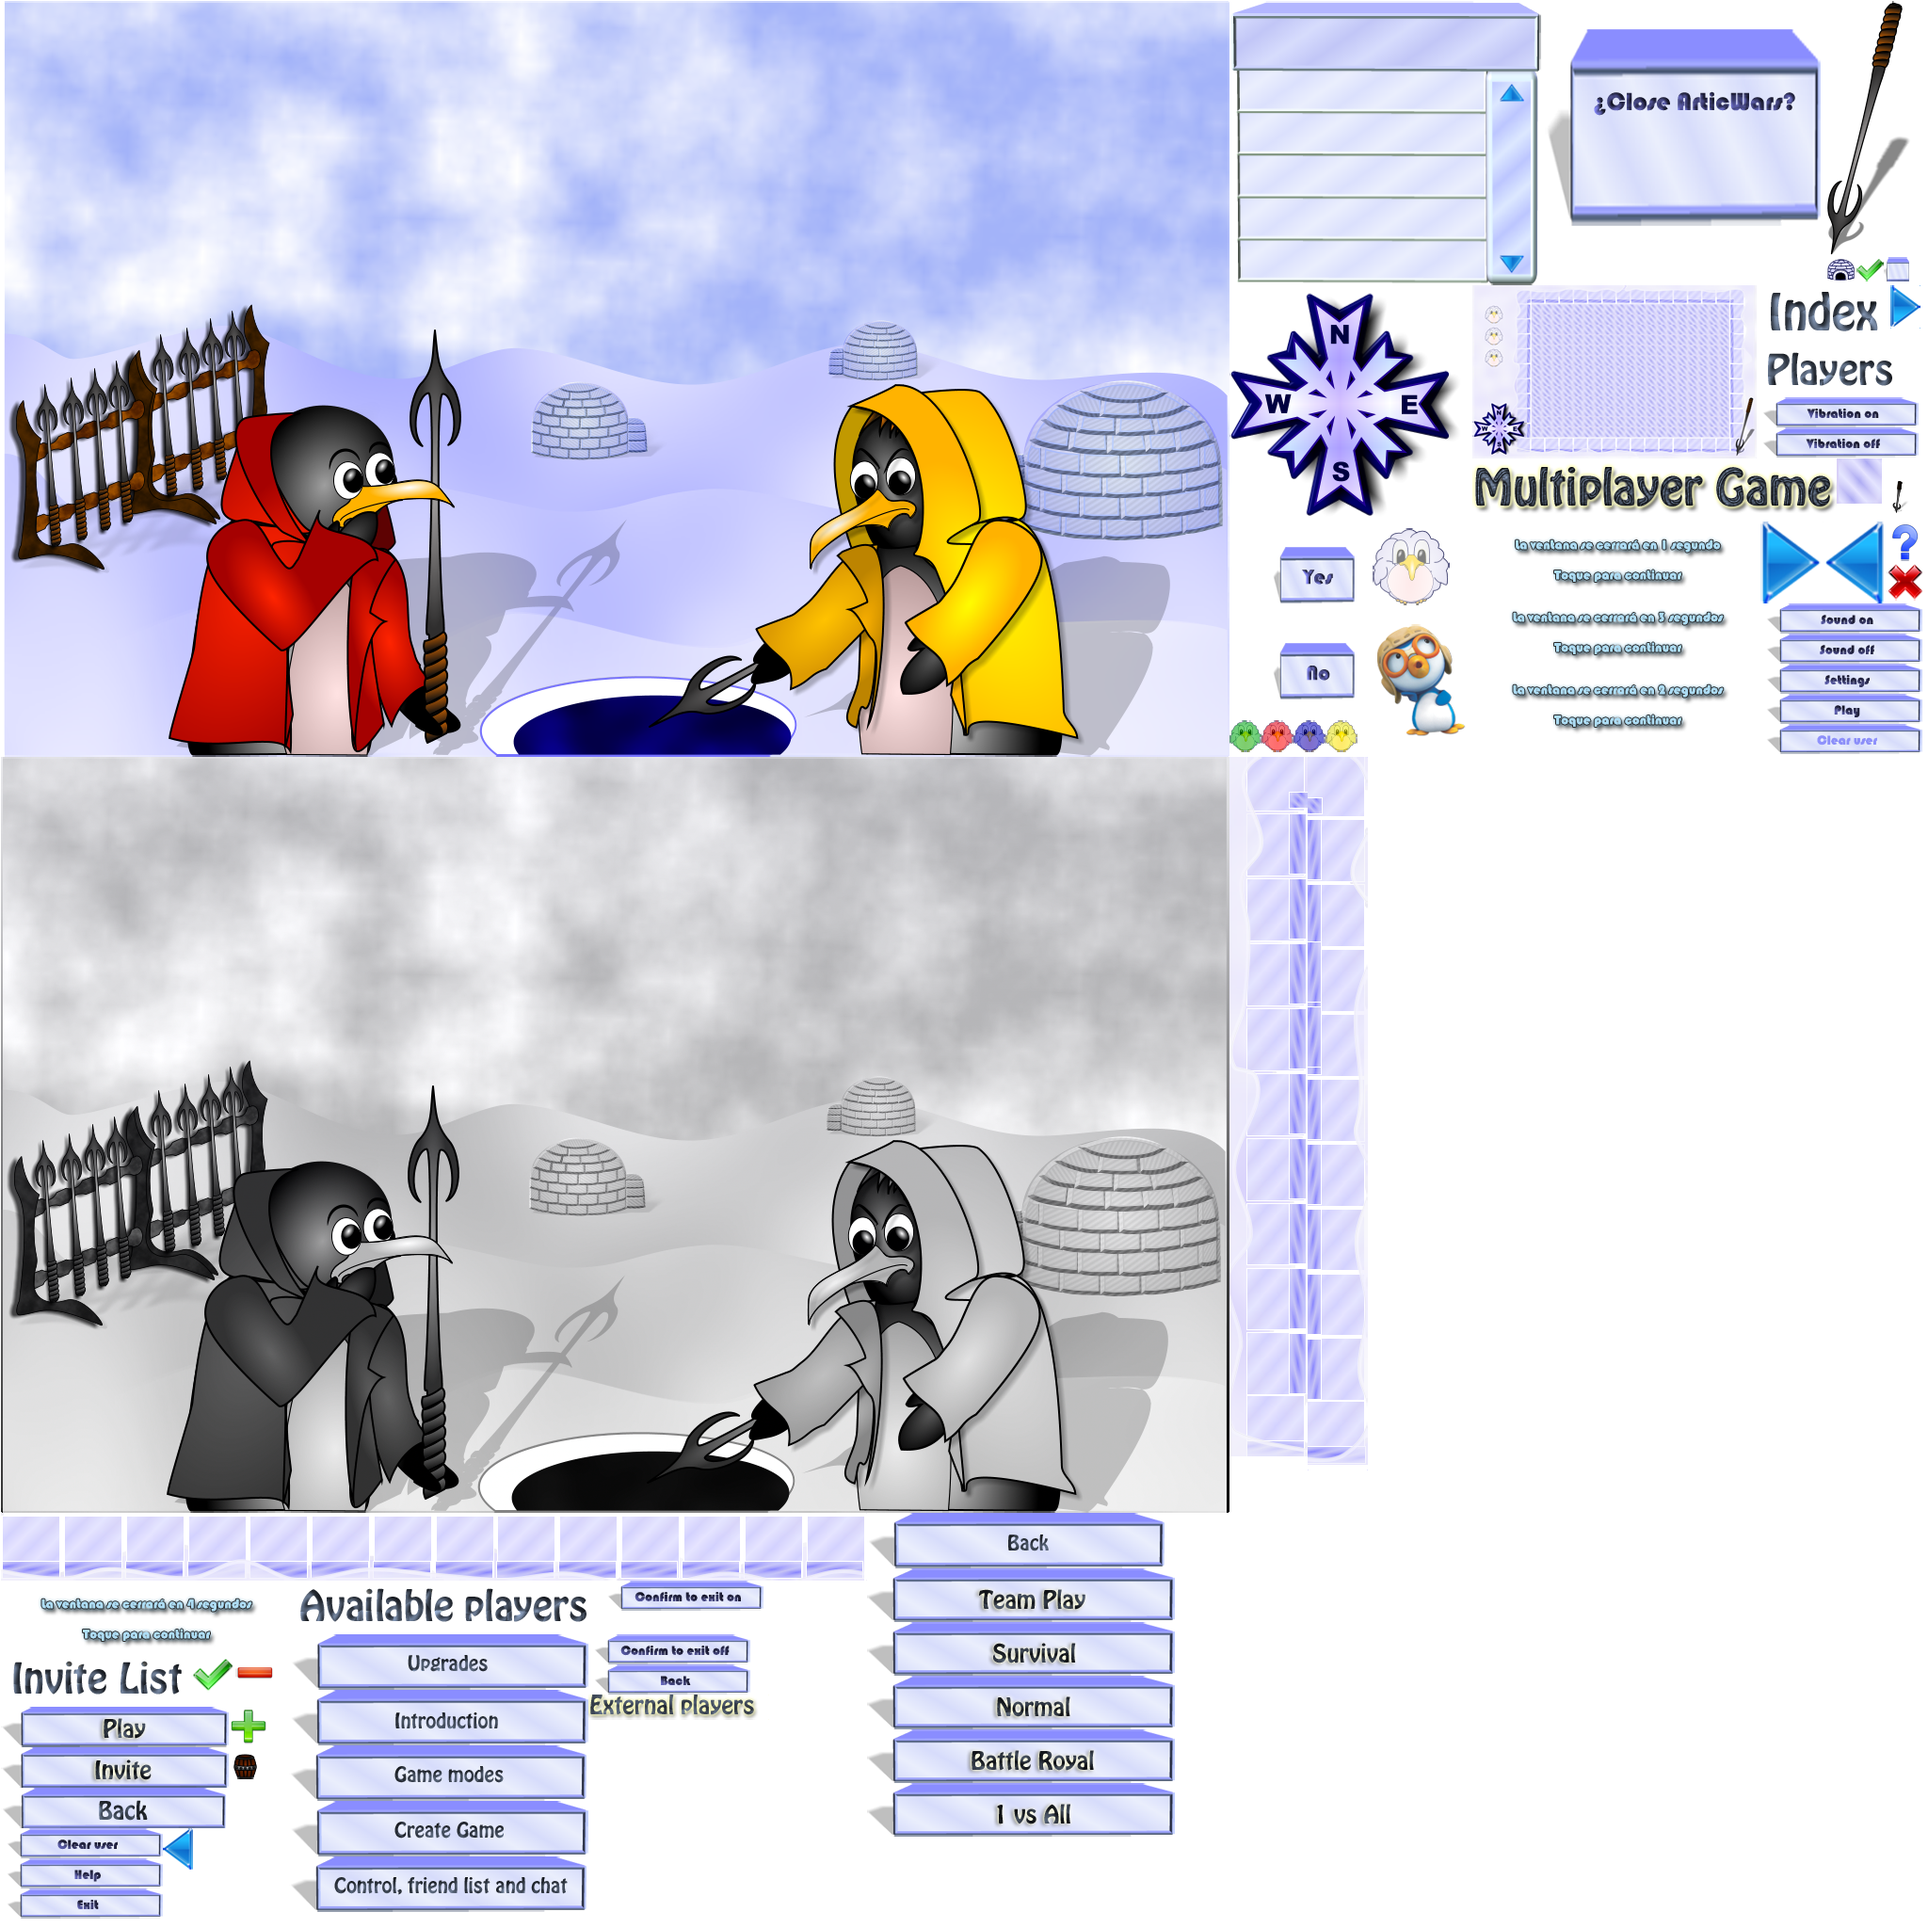
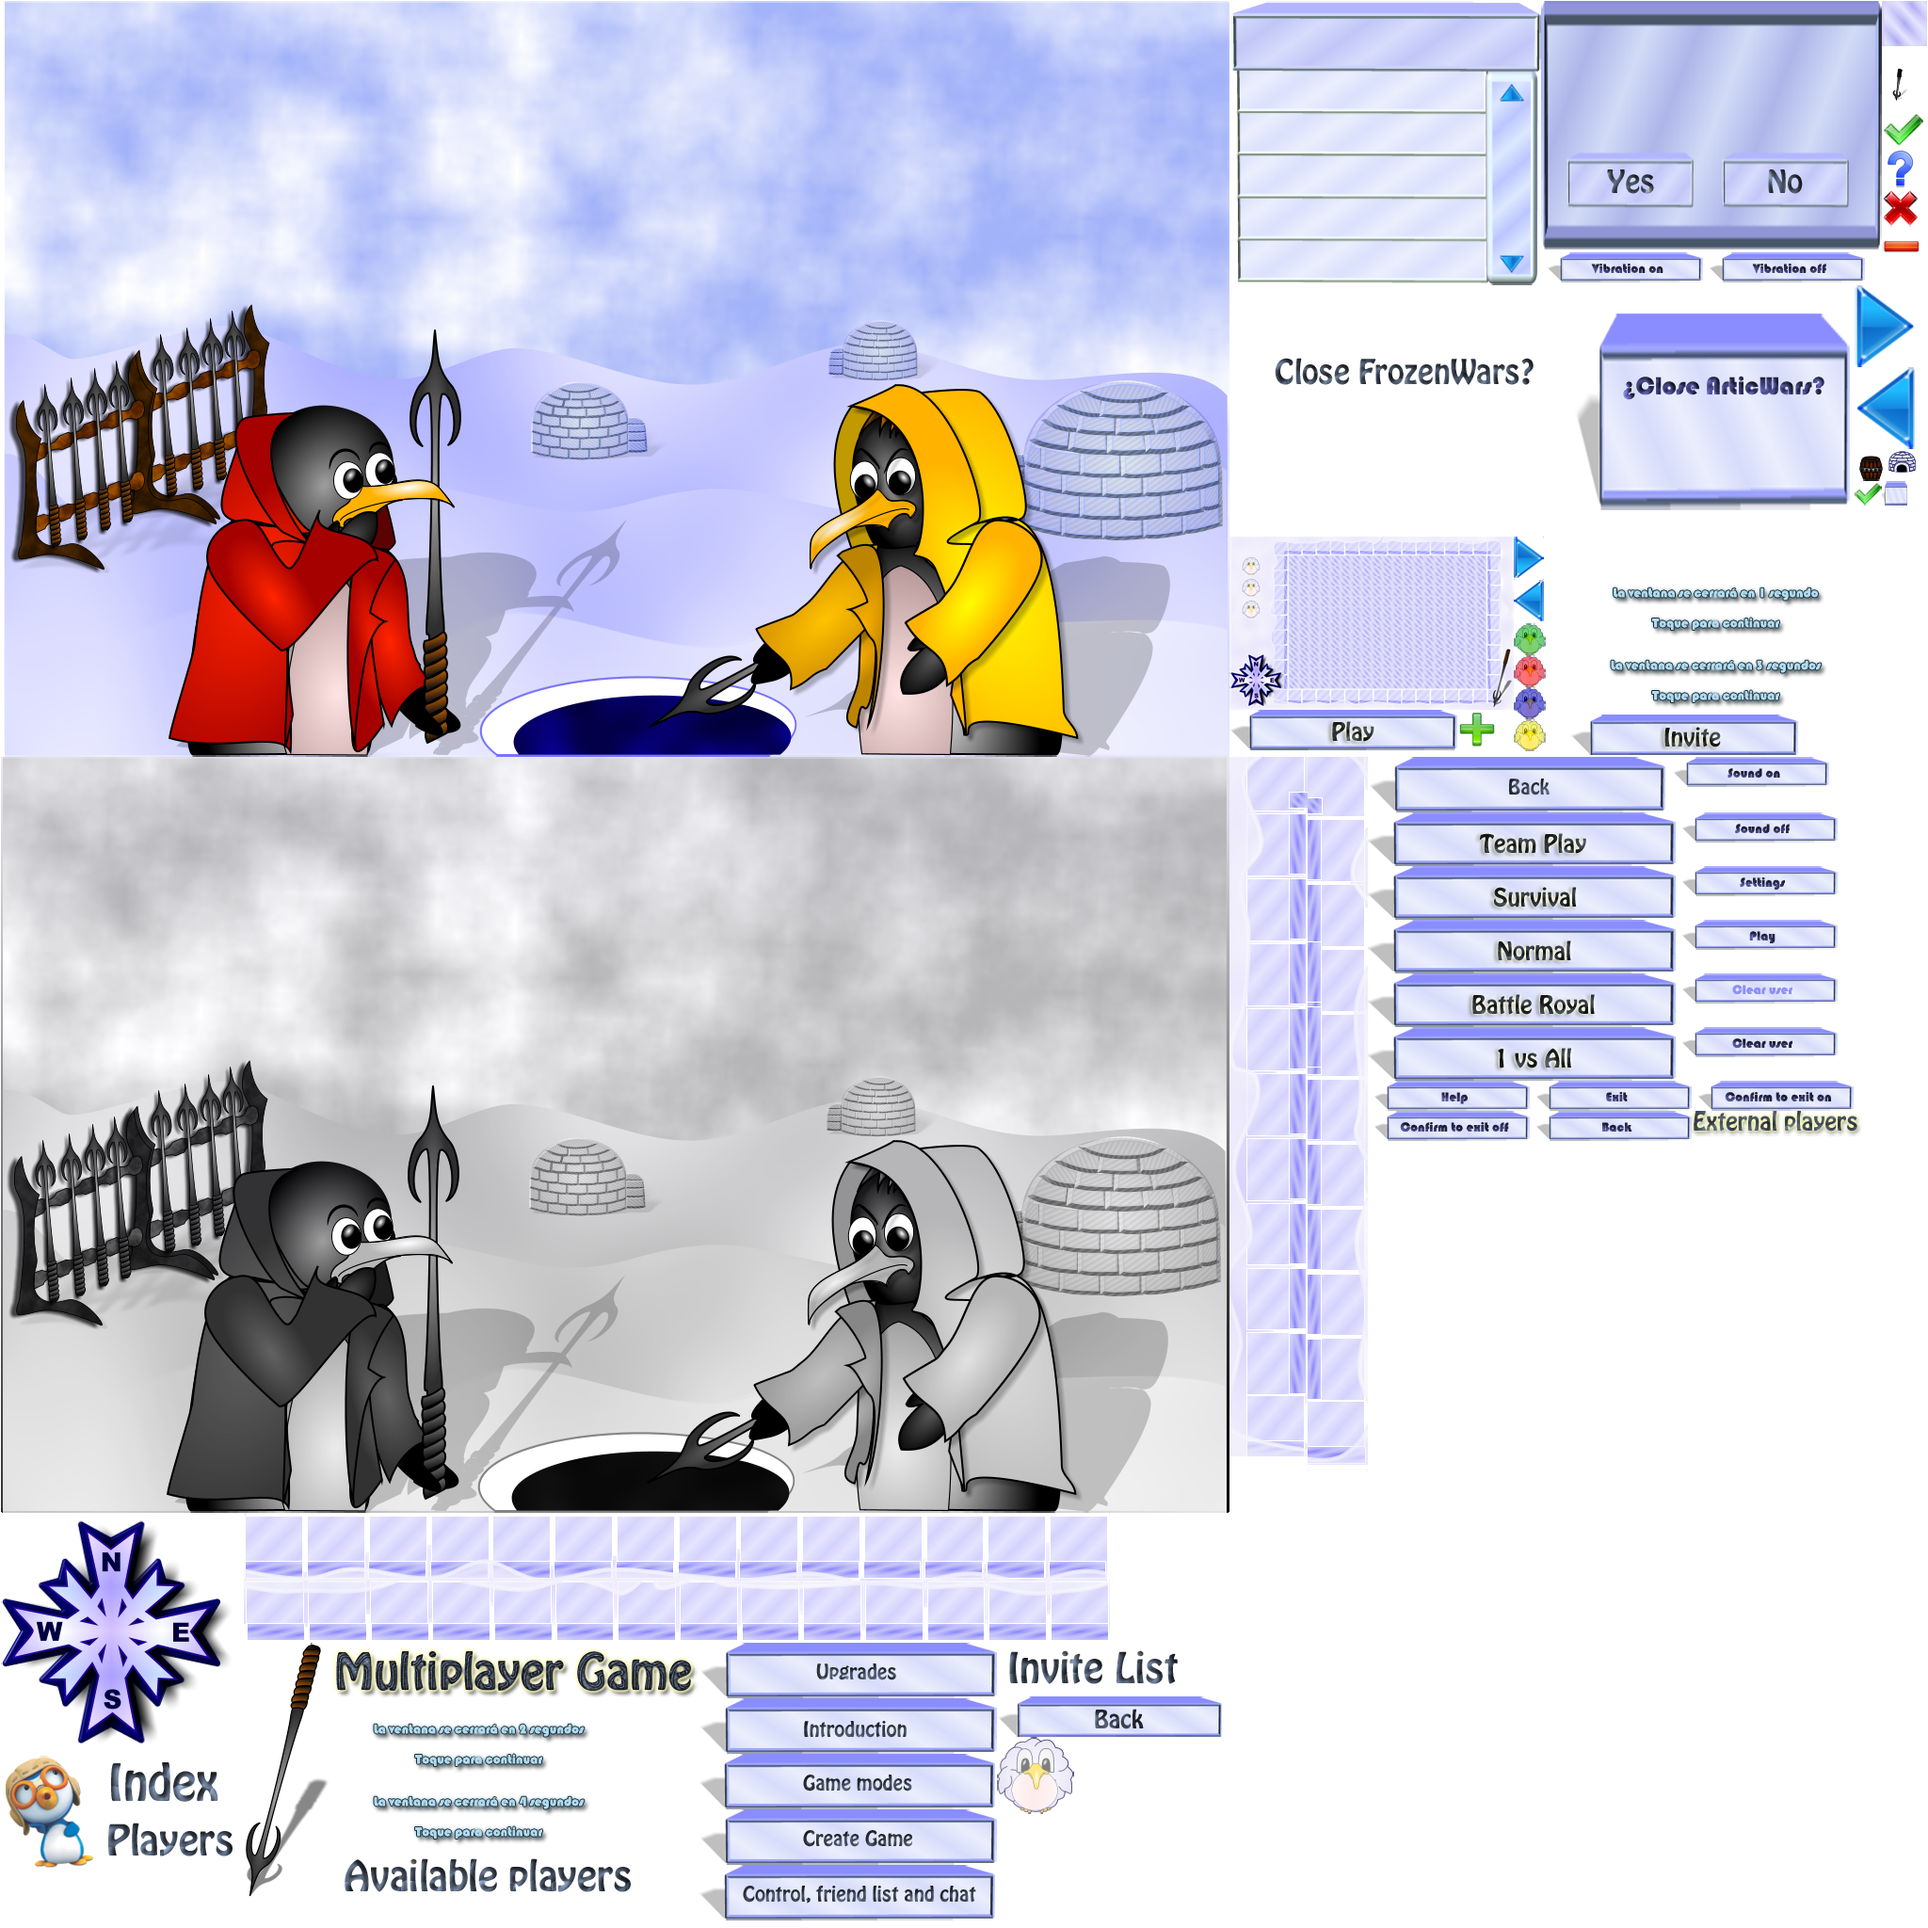
ConfirmScreen updated
To do: change button's bounding box

Changed region(s): [[0.625, 0.0, 1.0, 0.5938], [0.0, 0.7812, 0.6562, 1.0]]

diff --git a/FrozenWarsJava/src/Screens/ConfirmScreen.java b/FrozenWarsJava/src/Screens/ConfirmScreen.java
@@ -25,8 +25,8 @@ public class ConfirmScreen implements Screen{
 	public ConfirmScreen() {
 		this.game = LaunchFrozenWars.getGame();
 		this.initialScreen = InitialScreen.getInstance();
-		guiCam = new OrthographicCamera(420,380);
-		guiCam.position.set(210,190,0);
+		guiCam = new OrthographicCamera(1024,629);
+		guiCam.position.set(512,315,0);
 
 	    batcher = new SpriteBatch();
 	    touchPoint = new Vector3();
@@ -84,15 +84,15 @@ public class ConfirmScreen implements Screen{
             batcher.disableBlending();
             //se elimina graficamente la transparencia ya que es un fondo
             batcher.begin();
-            batcher.draw(Assets.backConf,0,0,420,380);
+            batcher.draw(Assets.backGrey,0,0);
             batcher.end();
 
           //Dibujando elementos en pantalla activamos el Blending
             batcher.enableBlending();
             batcher.begin();    
-            batcher.draw(Assets.panelConf, 50, 100);
-            batcher.draw(Assets.yesConf, 70, 180);
-            batcher.draw(Assets.noConf, 175, 180);
+            batcher.draw(Assets.window, 330, 300);
+            batcher.draw(Assets.exitText, 330, 300);
+           // batcher.draw(Assets.noConf, 175, 180);
             batcher.end();	
 	}
 

diff --git a/FrozenWarsJava/src/Application/Assets.java b/FrozenWarsJava/src/Application/Assets.java
@@ -24,9 +24,9 @@ public class Assets {
 	    public static AtlasRegion exit;
 
 	    //Componentes de la pantalla de confirmacion
-	    public static AtlasRegion panelConf;
-	    public static AtlasRegion yesConf;
-	    public static AtlasRegion noConf;
+	    public static AtlasRegion window;
+	    public static AtlasRegion exitText;
+
 	    
 	    //Componentes de la pantalla de carga
 	    public static AtlasRegion cincoSec;
@@ -142,9 +142,8 @@ public class Assets {
 	        
 	        
 		    //Componentes de la pantalla de confirmacion
-		    panelConf = atlas.findRegion("Confirm");
-		    yesConf = atlas.findRegion("YesConfirm");
-		    noConf = atlas.findRegion("NoConfirm");
+		    window = atlas.findRegion("Window");
+		    exitText = atlas.findRegion("ExitText");
 		        
 		    //Componentes de la pantalla de carga
 		    cincoSec = atlas.findRegion("cincoSec");
